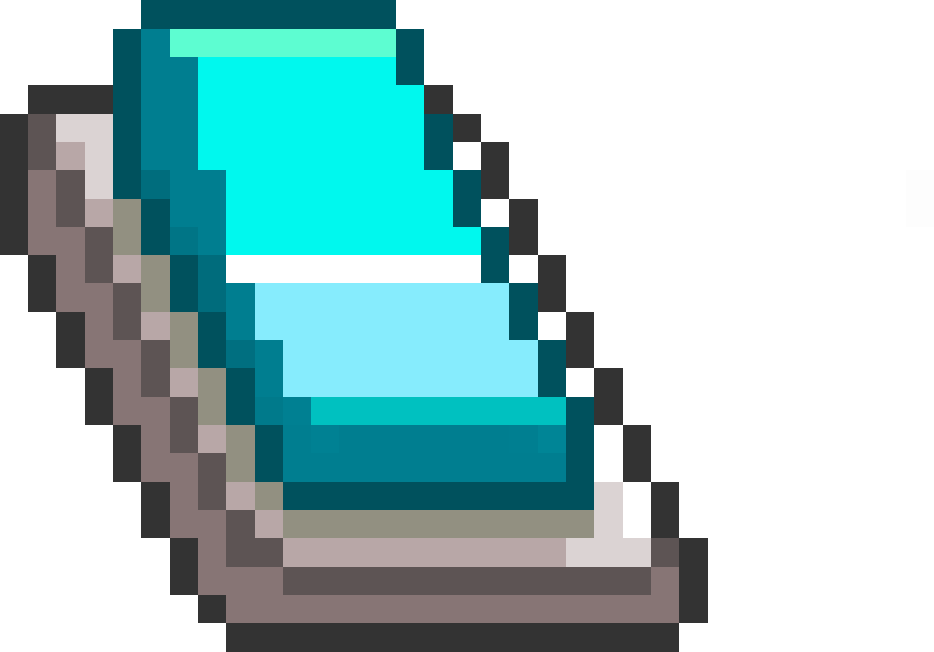
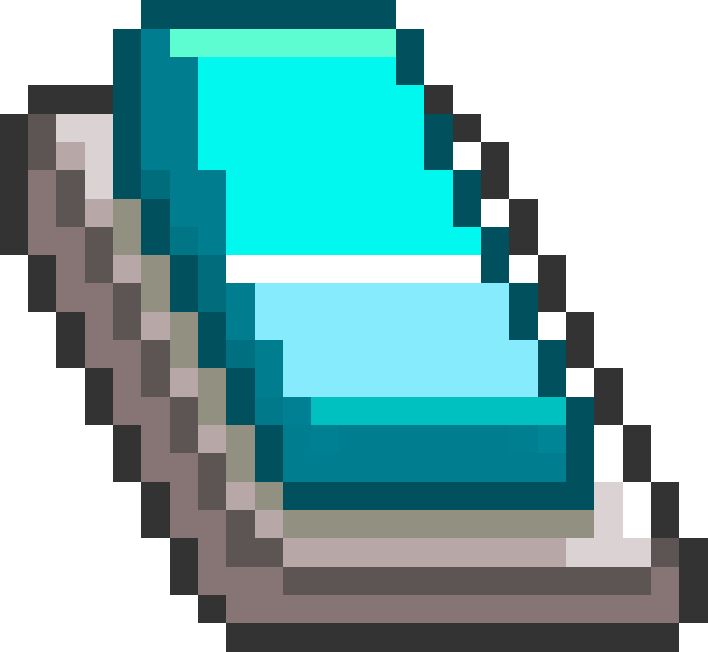
modal

diff --git a/src/style/sections/_top-section.scss b/src/style/sections/_top-section.scss
@@ -718,55 +718,55 @@
         // background: url('/src/static/img/mainButton_Default.png') no-repeat 50% 100% / 100% auto;        
         background-repeat: no-repeat;
         background-position: 0% 100%;
-        background-size: 120% auto, 0% 0%;        
+        background-size: 100% auto, 0% 0%;        
         will-change: background-image, background-size; 
         pointer-events: none;       
         &.t1{
-          background-image: url('/src/static/img/switch_blue_02.png'),url('/src/static/img/switch_blue_01.png');
+          background-image: url('/src/static/img/switch_red_02.png'),url('/src/static/img/switch_red_01.png');
           &:active,&.active{
-            background-size: 0% 0%, 120% auto;    
+            background-size: 0% 0%, 100% auto;    
           }
         }
         &.t2{
-          background-image: url('/src/static/img/switch_orange_02.png'),url('/src/static/img/switch_blue_01.png');
+          background-image: url('/src/static/img/switch_orange_02.png'),url('/src/static/img/switch_orange_01.png');
           &:active,&.active{
-            background-size: 0% 0%, 120% auto;
+            background-size: 0% 0%, 100% auto;
           }
         }  
         &.t3{
           background-image: url('/src/static/img/switch_yellow_02.png'),url('/src/static/img/switch_yellow_01.png');
           &:active,&.active{
-            background-size: 0% 0%, 120% auto;    
+            background-size: 0% 0%, 100% auto;    
           }
         }
         &.t4{
           background-image: url('/src/static/img/switch_blue_02.png'),url('/src/static/img/switch_blue_01.png');
           &:active,&.active{
-            background-size: 0% 0%, 120% auto;  
+            background-size: 0% 0%, 100% auto;  
           }
         }         
         &.t5{
           background-image: url('/src/static/img/switch_blue_02.png'),url('/src/static/img/switch_blue_01.png');
           &:active,&.active{
-            background-size: 0% 0%, 120% auto;      
+            background-size: 0% 0%, 100% auto;      
           }
         }
         &.t6{
           background-image: url('/src/static/img/switch_blue_02.png'),url('/src/static/img/switch_blue_01.png');
           &:active,&.active{
-            background-size: 0% 0%, 120% auto;  
+            background-size: 0% 0%, 100% auto;  
           }
         }  
         &.t7{
           background-image: url('/src/static/img/switch_purple_02.png'),url('/src/static/img/switch_purple_01.png');
           &:active,&.active{
-            background-size: 0% 0%, 120% auto;    
+            background-size: 0% 0%, 100% auto;    
           }
         }
         &.t8{
           background-image: url('/src/static/img/switch_pink_02.png'),url('/src/static/img/switch_pink_01.png');
           &:active,&.active{
-            background-size: 0% 0%, 120% auto;  
+            background-size: 0% 0%, 100% auto;  
           }
         } 
         .g3-btn-clip{
@@ -781,7 +781,7 @@
           width: 100%;
           height: 100%;
           background-color: transparent;
-          clip-path: polygon(15% 16%, 53% 16%, 68% 42%, 78% 69%, 81% 87%, 35% 85%, 15% 44%);
+          clip-path: polygon(18% 9%, 58% 9%, 68% 39%, 84% 58%, 84% 82%, 41% 82%, 18% 38%);
         }       
       }
     }   

diff --git a/src/index.html b/src/index.html
@@ -134,12 +134,12 @@
                   <div class="tg3-2-3">
                     <div class="btn-wrapper">
                       <div class="btn-asp-box">
-                        <button class="tg3-2-3-btn btn-egg"></button>
+                        <a class="tg3-2-3-btn btn-egg" href="#popup-1" data-modal-open></a>
                       </div>
                     </div> 
                     <div class="btn-wrapper">
                       <div class="btn-asp-box">
-                        <button class="tg3-2-3-btn btn-skull"></button>
+                        <a class="tg3-2-3-btn btn-skull" href="#popup-1" data-modal-open></a>
                       </div>
                     </div>               
                   </div>
@@ -180,7 +180,7 @@
                 </div> 
                 <div class="btn-wrapper">
                   <div class="btn-asp-box">
-                    <button class="g2-btn"></button>
+                    <a class="g2-btn" href="#popup-1" data-modal-open></a>
                     <span class="popup-text-wrapper">
                       <span class="popup-text-asp-box">
                         <span class="popup-text"></span>
@@ -266,9 +266,12 @@
       </div>
     </div>
   </main>
+  <div id="popup-1" class="modal-hider">
+    <div class="popup-1"></div>
+  </div>
    <div class="modal">
       <div class="modal-inner">
-        <a data-modal-close>Close</a>
+        <button class="btn-modal-close" data-modal-close></button>
         <div class="modal-content"></div>
       </div>
     </div>

diff --git a/src/style/components/_modal.scss b/src/style/components/_modal.scss
@@ -2,3 +2,53 @@ body.vanilla-modal .modal-hider {
   position: absolute;
   left: -99999em;
 }
+
+body.vanilla-modal{
+  &.modal-visible{
+    .modal{
+      opacity: 1;
+      z-index: 10;      
+      transition: opacity 0.8s, z-index 0s 0s; 
+    }
+  }
+  .modal{
+    opacity: 0;
+    z-index: -1;
+    background-color: rgba(0,0,0,0.8);
+    transition: opacity 0.8s, z-index 0s 0.8s;        
+    position: fixed;
+    top: 0;
+    left: 0;
+    width: 100%;
+    // height: 100%;
+    min-height: 100vh;
+    // display: flex;
+    // flex-direction: column;
+    // justify-content: center;
+    // align-items: center;
+  }  
+  .modal-inner{
+    position: absolute;
+    top: 20%;
+    left: 50%;
+    transform: translate(-50%,0);
+  }
+  .modal-content{    
+    width: 100%;
+    height: 100%;
+  }
+  // .btn-modal-close{}  
+}
+ 
+.popup-1{
+  padding: 0;
+  position: relative;
+  width: 600px; 
+  height: 400px;   
+  background-image: url('/src/static/img/popup.png');
+  background-repeat: no-repeat;
+  background-position: 50% 50%;
+  background-size: contain;
+}
+
+// popup.png

diff --git a/src/style/_buttons.scss b/src/style/_buttons.scss
@@ -1,0 +1,25 @@
+.btn-modal-close{
+  @include outline(0);
+  cursor: pointer;
+  border: none;
+  padding: 0;
+  position: absolute;    
+  width: 60px;
+  height: 60px;  
+  z-index: 5;
+  top: 26px;
+  right: 40px;        
+  background-color: transparent;
+  // background: url('/src/static/img/mainButton_Default.png') no-repeat 50% 100% / 100% auto;
+  background-image: url('/src/static/img/btn_close_default.png'), url('/src/static/img/btn_close_hover.png'), url('/src/static/img/btn_close_pressed.png');
+  background-repeat: no-repeat;
+  background-position: 50% 50%;
+  background-size: contain, 0% 0%, 0% 0%;
+  will-change: background-image, background-size;
+  &:hover{
+    background-size: 0% 0%, contain, 0% 0%;
+  }
+  &:active,&.active{
+    background-size: 0% 0%, 0% 0%, contain;
+  }
+}

diff --git a/src/js/modalJs.js b/src/js/modalJs.js
@@ -9,7 +9,7 @@ const modalJs = () => {
     page: 'body',
     loadClass: 'vanilla-modal',
     class: 'modal-visible',
-    clickOutside: false,
+    clickOutside: true,
     closeKeys: [27],
     transitions: true,
     onBeforeOpen: null,
